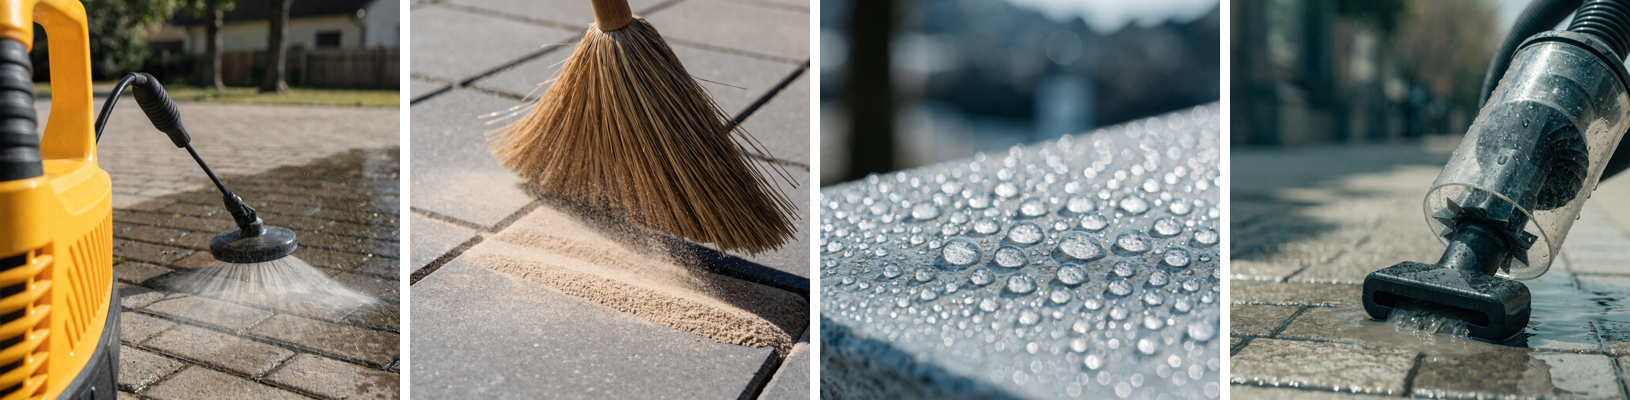
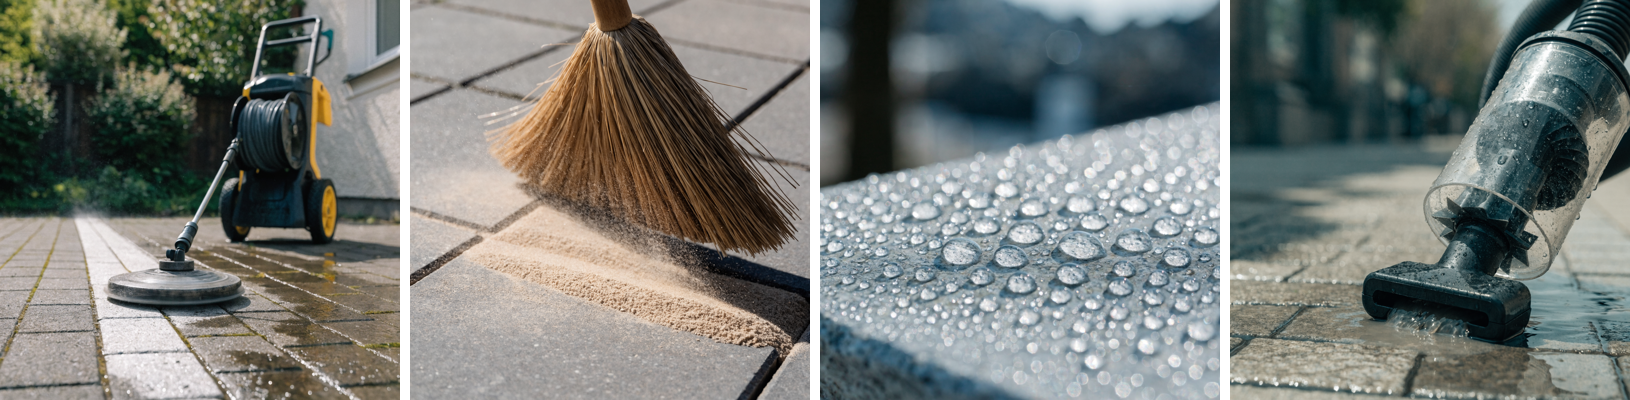
auto-save (norex-sync, windows)

Changed region(s): [[0.0, 0.0, 0.2454, 1.0]]

diff --git a/website/m-d.html b/website/m-d.html
@@ -1,0 +1,13 @@
+<!doctype html><html lang="de"><head><meta charset="utf-8"><meta name="viewport" content="width=device-width,initial-scale=1">
+<title>D — Foto-Karten</title><link rel="stylesheet" href="/assets/css/site.css">
+<style>.reveal{opacity:1!important;transform:none!important}body{margin:0}.md .usp-grid{gap:18px}
+.md-card{padding:0;overflow:hidden;display:flex;flex-direction:column;border-radius:16px}
+.md-img{aspect-ratio:4/3;overflow:hidden;background:var(--navy)}
+.md-img img{width:100%;height:100%;object-fit:cover;display:block;transition:transform .5s var(--ease)}
+.md-card:hover .md-img img{transform:scale(1.05)}
+.md-body{padding:20px 22px 24px;display:flex;flex-direction:column;flex:1}
+.md .usp-card-title{margin-bottom:8px}</style></head>
+<body><div style="padding:8px 0"><section class="usp-section md"><div class="container">
+<div class="section-head"><div class="section-label reveal"><span class="spark"></span>Womit wir arbeiten</div>
+<h2 class="section-title reveal">Materialschonend — weil die Methode stimmt.</h2><p class="section-sub reveal">Nicht der Hochdruck schadet dem Stein, sondern die falsche Anwendung. Wir setzen ihn kontrolliert ein und arbeiten in vier Schritten, die das Material schonen.</p></div>
+<div class="usp-grid"><div class="usp-card md-card"><div class="md-img"><img src="/mock-uspr-1.png" alt="Flächenreiniger statt Lanze"></div><div class="md-body"><div class="usp-card-title">Flächenreiniger statt Lanze</div><p class="usp-card-text">Wir reinigen mit rotierenden Flächenreinigern — gleichmäßiger Abtrag, keine Streifen, keine ausgewaschenen Fugen. Hochdruck, aber kontrolliert eingesetzt.</p></div></div><div class="usp-card md-card"><div class="md-img"><img src="/mock-uspr-2.png" alt="Neuverfugung mit Sand"></div><div class="md-body"><div class="usp-card-title">Neuverfugung mit Sand</div><p class="usp-card-text">Nach der Reinigung füllen wir die Fugen mit frischem GaLaBau-Sand auf. Das hält das Pflaster stabil und bremst Unkraut aus.</p></div></div><div class="usp-card md-card"><div class="md-img"><img src="/mock-uspr-3.png" alt="Nano-Imprägnierung"></div><div class="md-body"><div class="usp-card-title">Nano-Imprägnierung</div><p class="usp-card-text">Auf Wunsch versiegeln wir die Fläche. Wasser perlt ab, Moos und Schmutz finden weniger Halt — die Fläche bleibt länger sauber.</p></div></div><div class="usp-card md-card"><div class="md-img"><img src="/mock-uspr-4.png" alt="Saubere Absaugung"></div><div class="md-body"><div class="usp-card-title">Saubere Absaugung</div><p class="usp-card-text">Den gelösten Schmutz saugen wir nass ab. Keine Matsch-Sauerei in Beeten, auf dem Rasen oder an der Hauswand.</p></div></div></div></div></section></div></body></html>